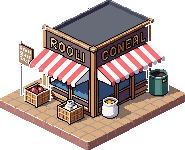
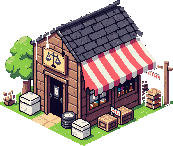
AW-66b: town signage fixes — no more AI spelling
Neal caught "COMEDY & TRAGDY" on the playhouse and gibberish on the
goods store awning; the audit also flagged the smithy rendering as a
roofless interior. All three re-rolled with pictorial-sign-only prompts
(drama masks, barrel-and-scales, anvil) and a hard no-text clause — now
the standing rule for building art. The playhouse v2 still sneaked in a
gibberish side placard, surgically erased in PIL; its correctly-spelled
FANTASY THEATRE marquee stays. 489 tests green.

diff --git a/assets/source/pixellab/tools/vael_fixes.py b/assets/source/pixellab/tools/vael_fixes.py
@@ -1,0 +1,38 @@
+"""AW-66b: re-roll the three flawed town buildings — NO TEXT anywhere (the
+model can't spell); pictorial signs only. Smithy becomes a real exterior."""
+from pixellab import call
+import json, os, re, time, subprocess
+
+OBJECTS = [
+ ("playhouse", 224, 192, "a small fantasy theater playhouse, red curtains visible through the entrance arch, a hanging sign showing ONLY two carved drama masks (one smiling, one weeping), festive bunting, warm lanterns, absolutely no text, no letters, no words anywhere"),
+ ("shop_goods", 192, 160, "a friendly general goods store exterior with a red and white striped awning, crates and sacks of goods out front, a hanging wooden shingle sign showing ONLY a barrel and scales symbol, absolutely no text, no letters, no words anywhere"),
+ ("smithy", 192, 160, "a sturdy stone blacksmith building exterior with a slate roof, a big smoking chimney, an open forge glow through the doorway, a hanging sign showing ONLY an anvil symbol, horseshoes on the wall, absolutely no text, no letters, no words anywhere"),
+]
+DST = "/Users/nealsharma/code/Vael Academy/assets/source/pixellab/vael_town"
+s = {}
+for tag, w, h, desc in OBJECTS:
+    while True:
+        t, _ = call("create_map_object", {"description": desc, "width": w, "height": h,
+            "view": "high top-down", "detail": "medium detail", "shading": "detailed shading"})
+        if not t.startswith("error"):
+            break
+        time.sleep(45)
+    s[tag] = re.search(r"id: (\S+)", t).group(1)
+    print("queued", tag, flush=True)
+    time.sleep(6)
+done = set()
+while len(done) < len(OBJECTS):
+    for tag, *_ in OBJECTS:
+        if tag in done:
+            continue
+        t, _ = call("get_map_object", {"object_id": s[tag]})
+        if "status: completed" in t:
+            url = next(l.split()[1] for l in t.splitlines() if l.startswith("download:"))
+            subprocess.run(["curl", "-sL", url, "-o", f"{DST}/{tag}.png"], check=True)
+            done.add(tag)
+            print("downloaded", tag, flush=True)
+        elif "status: failed" in t:
+            done.add(tag); print("FAILED", tag, flush=True)
+    if len(done) < len(OBJECTS):
+        time.sleep(20)
+print("FIXES COMPLETE", flush=True)

diff --git a/HANDOFF.md b/HANDOFF.md
@@ -26,7 +26,7 @@ A Fire Emblem–style 2D tactics RPG ("Emberline Tactics", working title) in **G
 
 **🌋 TERRAIN BUFFS/DEBUFFS (AW-29):** buff tiles already existed (Forest/Fort/Pillar +def/+avoid, Spring/Fort heal); this adds the other half. **Embers** (`Terrain.Type.EMBERS = 13`): passable HAZARD, `TerrainInfo.damage_per_turn = 3` chips HP at each turn start (`battle_view._apply_terrain_hazard`, called next to `_apply_terrain_heal`), **never lethal** (floors at 1 HP). **Mire** (`MIRE = 14`): DEBUFF — move cost 4, def −1, avoid −15 (terrain def/avoid already fold into combat via `_terrain_def_at`/`_terrain_avoid_at`, so negatives just work). New `TerrainInfo.damage_per_turn` (8th `_init` positional, append-only) + `TerrainDB.damage_per_turn()`. Tint fallback colors added; no wang art yet (uses tint). NOT yet placed on a map — drop Embers/Mire into the contested center when the mock-battle map is rebuilt (next). `test_terrain_db.gd` + `test_mock_battle` hazard test. **Enum values are persisted — append only, never renumber.**
 
-**🏙 THE TOWN OF VAEL — M10 OPENS (AW-66, Neal's greenlight):** the city outside the gates, on the castle toolkit (all rooms run through CastleScene — doors/points/music/editor just work). **Design: `TOWN_OF_VAEL.md`** (districts, economy, research pulled from FE3H/Persona/Stardew/Fable — adopted: tavern meals now, gift-giving/notice-quests/festival-square/grade-discounts later). **Five districts** (`tools/build_vael_town.gd`, regenerable): `vael_square` (grand fountain, king's statue, notice board, gossip point, city gate) ↔ campus (the gatehouse road door at campus (22,29) — patch guarded), `vael_market` (**three WORKING shops**), `vael_castle_gate` (the King of Aldreth's MASSIVE castle, gates SEALED — royal guards (tm_armor) turn students away; the gates opening is a reserved story beat), `vael_cathedral` (the Grand Chantry: candle-lighting = +2 Conduct via new `"conduct"` dialogue event; scripture lore that misreads the First Crown), `vael_riverside` (the **Gilded Stag** tavern, playhouse facade, fn_fish pier, rowboats, river WATER strip). **Economy v1** (castle_scene): `SHOP_STOCK` — smithy (iron arms 80-90g), Reach & Barrel (vulnerary 60g, Promotion Seal 600g), and the **Arcane Bookshop** (SPELLBOOKS.md route 3: 900g/school, Kai-only, opens the school + grants the tome, shelf shrinks as he learns); purchases land in Kai's persisted kit (grant_weapon/grant_item), `fn_shop_*` prefix routes, menu shows the purse. **Tavern meal** = second bond activity (20g, +8 support, +2 conduct, weekly `tavern_week_%d`). **16 new buildings** (PixelLab batch `vael_town_art.py`, matted by `tools/install_vael_art.py` → `assets/art/pixellab/buildings/vael/`): kings_castle (318px!), cathedral, tavern, smithy, 2 shops, playhouse, 3 townhouses, 2 stalls, grand fountain, king statue, rowboat, city_gate. Dialogue DRAFTS: guards/gossip/notice/candles/scripture/playhouse (co-write polishes). Renders `assets/art_review/debug/vael_*.png`. `test_vael_town.gd` (5). **489 tests green.** **OPEN:** town NPC walkers (no townsfolk sprites yet — PixelLab next reset), selling to shops, gifts, castle interior (story), festival-in-square variants, town music (`rooms/vael_*.mp3` convention ready).
+**🏙 THE TOWN OF VAEL — M10 OPENS (AW-66, Neal's greenlight):** the city outside the gates, on the castle toolkit (all rooms run through CastleScene — doors/points/music/editor just work). **Design: `TOWN_OF_VAEL.md`** (districts, economy, research pulled from FE3H/Persona/Stardew/Fable — adopted: tavern meals now, gift-giving/notice-quests/festival-square/grade-discounts later). **Five districts** (`tools/build_vael_town.gd`, regenerable): `vael_square` (grand fountain, king's statue, notice board, gossip point, city gate) ↔ campus (the gatehouse road door at campus (22,29) — patch guarded), `vael_market` (**three WORKING shops**), `vael_castle_gate` (the King of Aldreth's MASSIVE castle, gates SEALED — royal guards (tm_armor) turn students away; the gates opening is a reserved story beat), `vael_cathedral` (the Grand Chantry: candle-lighting = +2 Conduct via new `"conduct"` dialogue event; scripture lore that misreads the First Crown), `vael_riverside` (the **Gilded Stag** tavern, playhouse facade, fn_fish pier, rowboats, river WATER strip). **Economy v1** (castle_scene): `SHOP_STOCK` — smithy (iron arms 80-90g), Reach & Barrel (vulnerary 60g, Promotion Seal 600g), and the **Arcane Bookshop** (SPELLBOOKS.md route 3: 900g/school, Kai-only, opens the school + grants the tome, shelf shrinks as he learns); purchases land in Kai's persisted kit (grant_weapon/grant_item), `fn_shop_*` prefix routes, menu shows the purse. **Tavern meal** = second bond activity (20g, +8 support, +2 conduct, weekly `tavern_week_%d`). **16 new buildings** (PixelLab batch `vael_town_art.py`, matted by `tools/install_vael_art.py` → `assets/art/pixellab/buildings/vael/`): kings_castle (318px!), cathedral, tavern, smithy, 2 shops, playhouse, 3 townhouses, 2 stalls, grand fountain, king statue, rowboat, city_gate. Dialogue DRAFTS: guards/gossip/notice/candles/scripture/playhouse (co-write polishes). Renders `assets/art_review/debug/vael_*.png`. **AW-66b (Neal's text audit):** playhouse ('COMEDY & TRAGDY') and shop_goods (gibberish awning) re-rolled; smithy re-rolled too (it generated as a roofless interior diorama). **RULE: building prompts must say 'absolutely no text, no letters, no words anywhere' + pictorial signs** — the model can't spell. Playhouse v2 still grew a gibberish side placard ('Favel Bievs') → erased surgically via PIL (tight-box, transparent); its correctly-spelled FANTASY THEATRE marquee kept. `test_vael_town.gd` (5). **489 tests green.** **OPEN:** town NPC walkers (no townsfolk sprites yet — PixelLab next reset), selling to shops, gifts, castle interior (story), festival-in-square variants, town music (`rooms/vael_*.mp3` convention ready).
 
 **🍽 HOGWARTS DINING HALL + THREE HOUSE DORM HALLS (AW-65):** Neal's oldest interior asks, done. (1) **The Great Hall (`entrance`) is a dining hall** — refurnished in place (`tools/build_house_halls.gd`; same room id/size, same door cells (11,12)/(0,6)/(21,6), same spawn targets, the Oath Wall stays at (4,2), wall ring restored): head table flanked by founder statues + banners, six long house-table runs with benches, twin hearths, a grand central aisle. (2) **`dorm_hall` is DELETED — each house has its own hall**: `emberwing_hall` / `tidemark_hall` / `thornrook_hall` (16×10 FLOOR interiors), themed — house-colored BEDS (new PixelLab props `bed_ember/bed_tide/bed_thorn`, ~3 gens), house feature (hearth/well/bookshelf), accent terrain (EMBERS/SPRING/FLOWERS), each hosting **fn_rest** and a door back to its quarter; every quarter's dorm building now opens into ITS OWN hall (tidemark/thornrook gained front doors — they had none). Tests updated: fn_rest expectation → emberwing_hall; the door-bounce test moved. NOTE the quarters' old cosmetic `<id>_rest` label points remain (non-functional; co-write may hang dialogue there). Renders: `assets/art_review/debug/great_hall_dining.png`, `emberwing_hall.png`. **484 tests green.**
 
